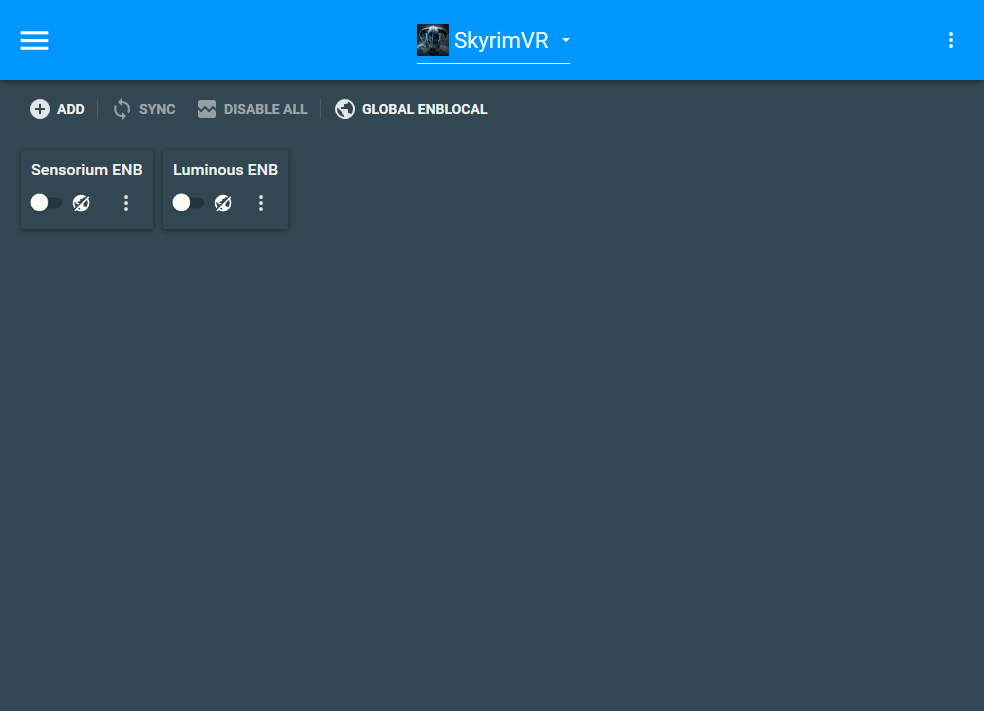
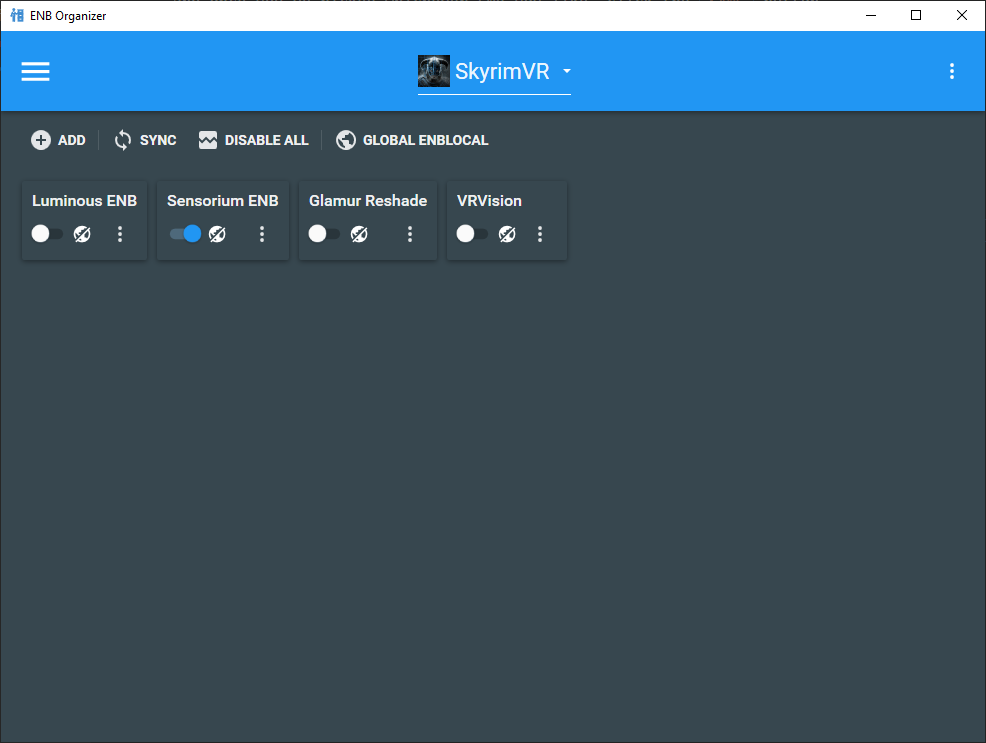
update enb selection readme

Changed region(s): [[0.0, 0.0, 1.0, 0.3404], [0.0, 0.9902, 1.0, 1.0], [0.4573, 0.2475, 0.5488, 0.3404]]

diff --git a/ENB Selection.md b/ENB Selection.md
@@ -11,23 +11,27 @@ ENB Organizer will then launch. If you see an error message regarding a failure 
 
 ![ENB Organizer 1](img/ENBOrganizer00.png)
 
-Click the hamburger menu at the top left of the program and navigate to the presets window.
+Click the hamburger menu at the top left of the program and navigate to the Binaries window.
 
-![ENB Organizer 2](img/ENBOrganizer01.png)
+![ENB Organizer 2](img/ENBOrganizerBinaries.png)
+
+In this screen, toggle both the ENB Binaries and OpenVR Foveated.
+
+![ENB Organizer 3](img/ENBOrganizerBinToggle.png)
+
+After toggling both binaries, click the hamburger menu again and navigate to the Presets window.
+
+![ENB Organizer 4](img/ENBOrganizer01.png)
 
 From this screen, you can choose the ENB of your choice. I'd recommend that you check out the presets pages on Nexus for previews to see which one takes your interest the most. Only pick 1 ENB and once you've picked whichever ENB you like, click the `SYNC` button.
 
-**IMPORTANT NOTE:** The Sensorium ENB requires you to change the ini file for Azurite Weathers. I have an overwrite setup in the "Tahrovin Patches" category. See [below](#azurite-weathers-ini-change) for details for the changes required and how to perform them.
-
-![ENB Organizer 3](img/ENBOrganizer02.png)
+![ENB Organizer 4](img/ENBOrganizer02.png)
 
 ### Azurite Weathers ini Change
-If you're using the Sensorium ENB, you need to change `bUseFilmicCurve` in the Azurite Weathers ini to `0`. In MO2, open the "Tahrovin Patches" category and double-click on the "Azurite Weathers ini" mod.
+It's recommended  that you change `bUseFilmicCurve` in the Azurite Weathers ini to `0`. In MO2, open the "Tahrovin Patches" category and double-click on the "Azurite Weathers ini" mod.
 
 ![MO2 1](img/MO200.png)
 
 A new window will pop up. At the top of this new window, select "INI Files", select `Azurite Weathers.ini` from the left hand list. Find `bUseFilmicCurve` in the editing pane and change it to `bUseFilmicCurve=0`. Save the file and close down the window.
 
 ![MO2 2](img/MO201.png)
-
-If you change to a reshade of any kind, follow these same steps again but set `bUseFilmicCurve` to `1` instead.

diff --git a/README.md b/README.md
@@ -71,7 +71,7 @@ If you have not yet installed Skyrim VR, you can skip this part.
 Once you've done the steps above, you can now set Steam to download Skyrim VR again but ***do not*** install Skyrim VR to a protected folder, such as `Desktop`, `Downloads` or `Program Files` of any kind. It's best to create a new, dedicated folder for it using the Steam Library function somewhere on the root of your drive such as `C:\SteamLibrary`. A lot of people have a dedicated secondary drive for their games, keeping the OS install separate; using this secondary drive will also work.
 
 #### Start Skyrim VR
-That's right - start the game. You need to let the game initial start up bits such as creating registry entries and generating default config files. Once you've gotten to the main menu you can close the game again.
+That's right - start the game. You need to let the game do its initial start up jobs such as creating registry entries and generating default config files. Once you've gotten to the main menu you can close the game again.
 
 ### Wabbajack
 Installing the list is straight forward, Wabbajack will do most of the heavy lifting for you - you only have to tell it where to put stuff. Grab the `Tahrovin.wabbajack` file from [Releases](https://github.com/iAmMe27/Tahrovin/releases). Double-click it and Wabbajack should open. Wabbajack will have 2 things for you to do - fill in the installation location and the download location. 
